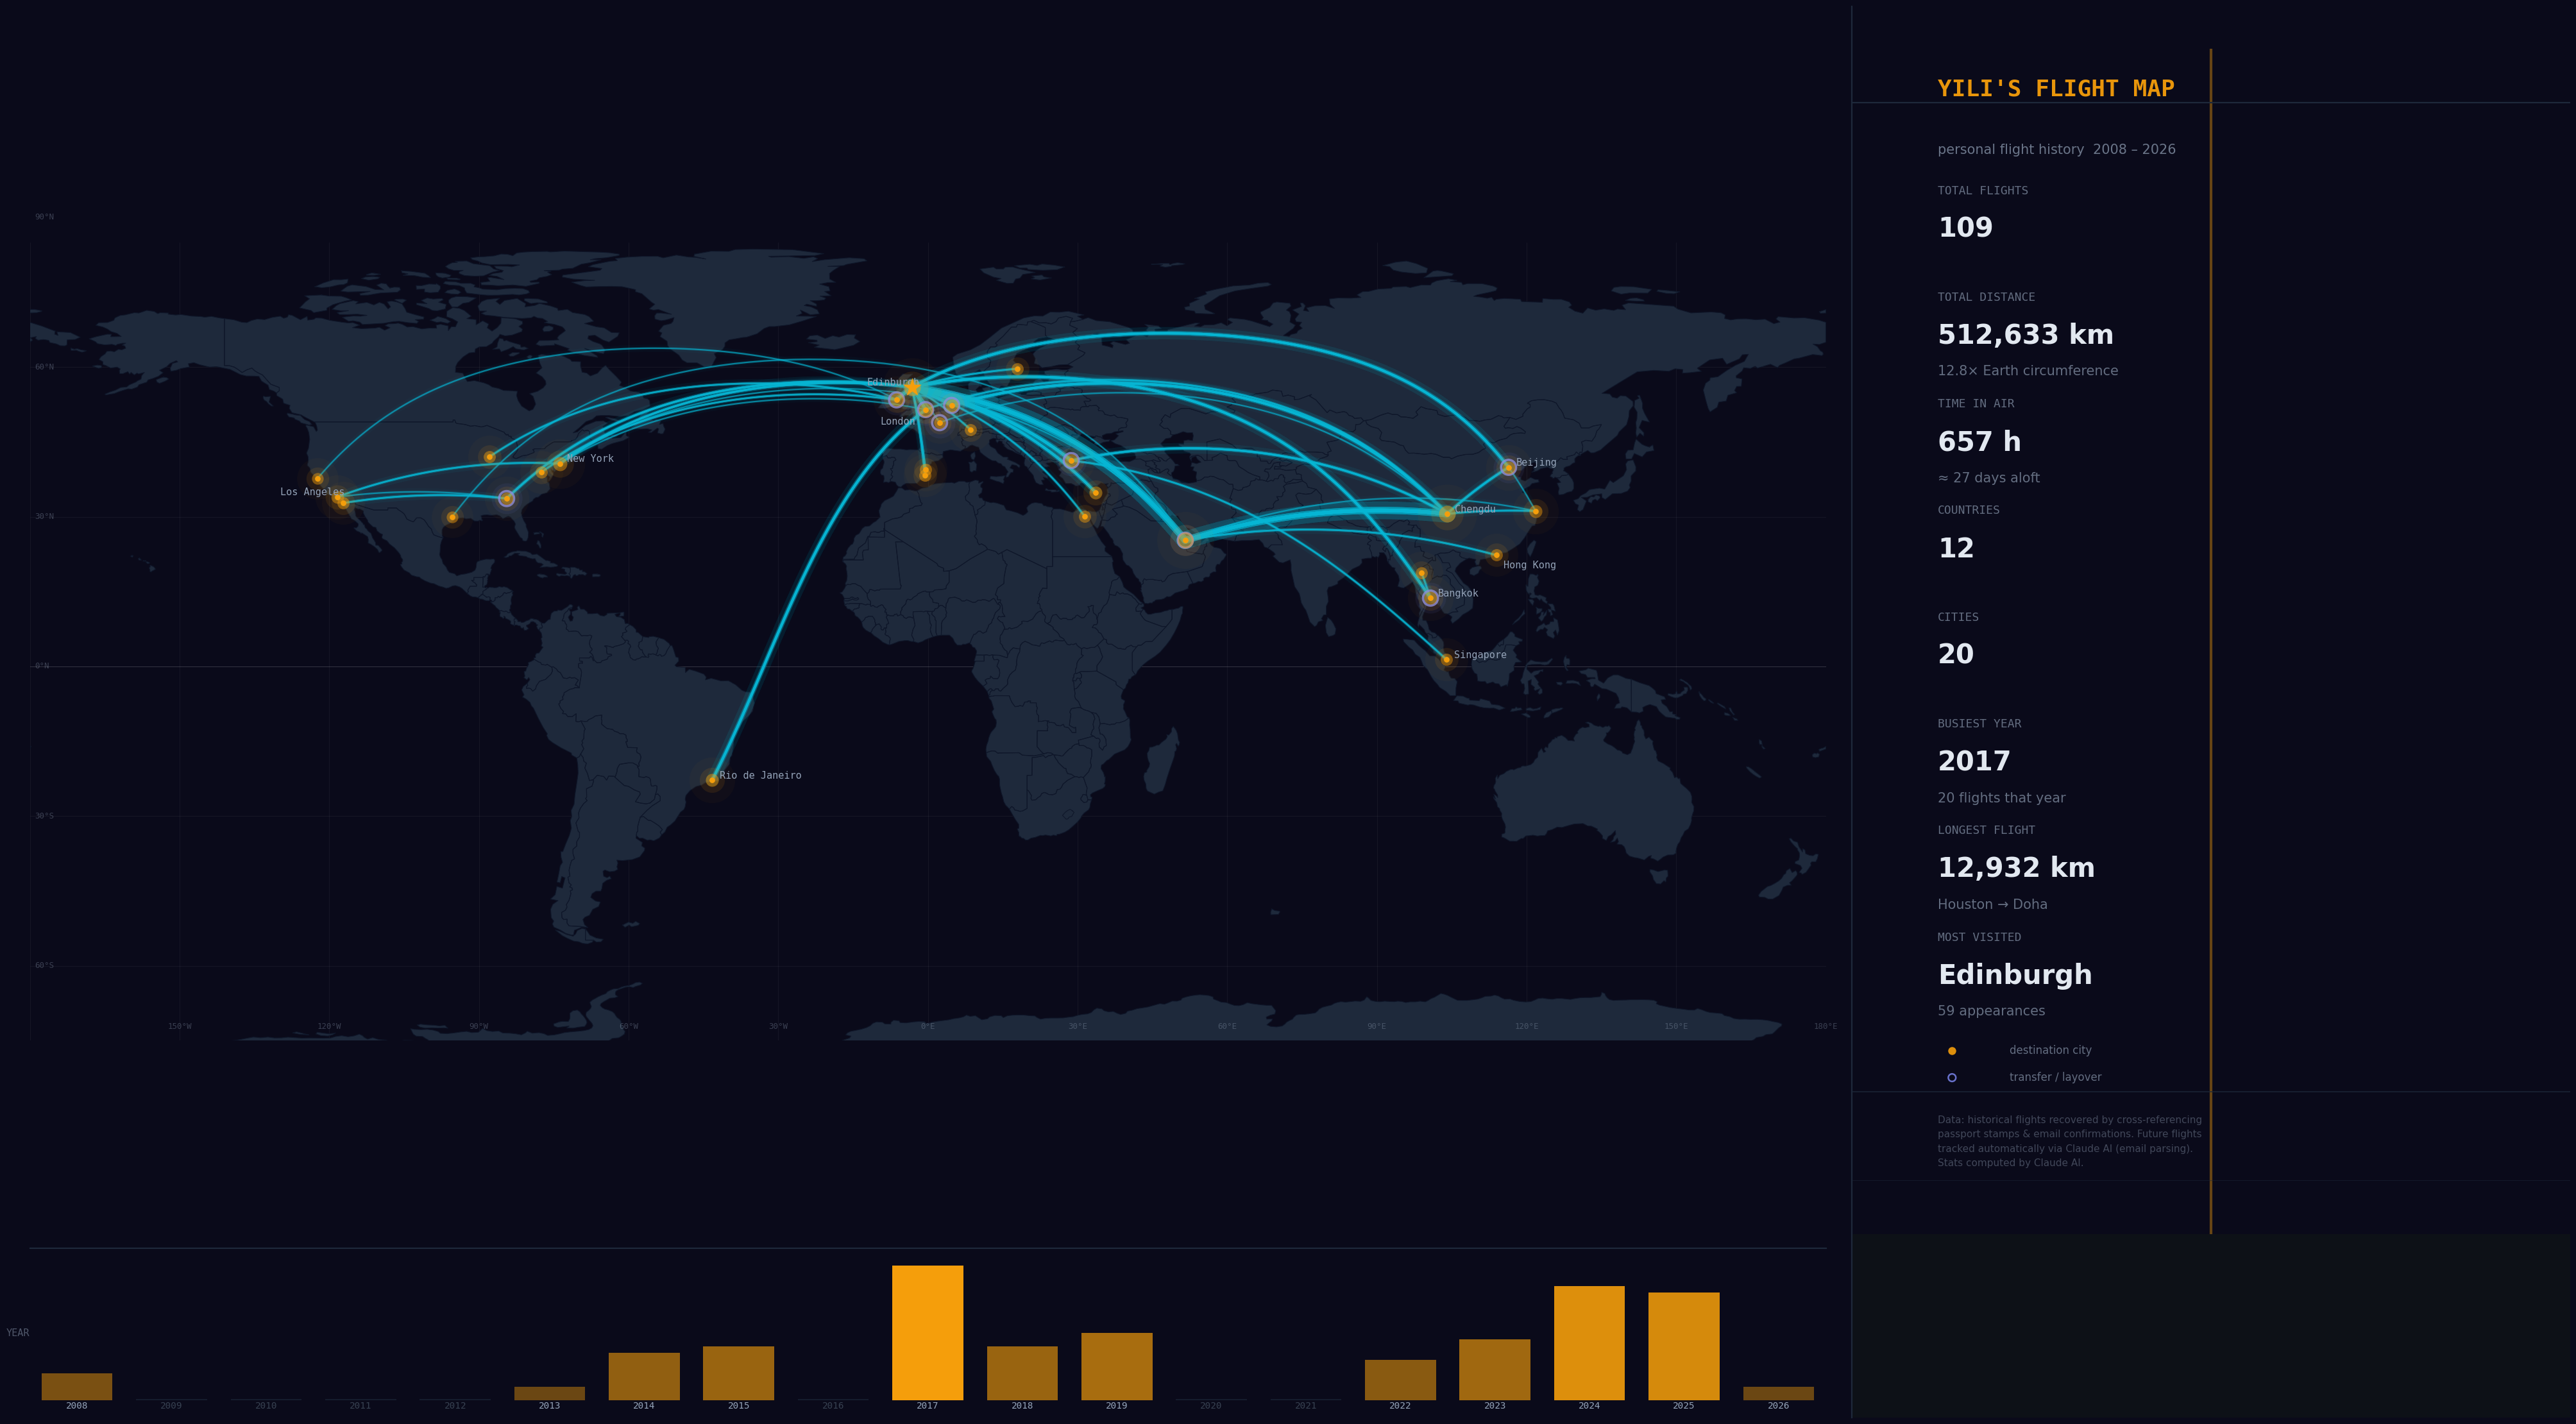
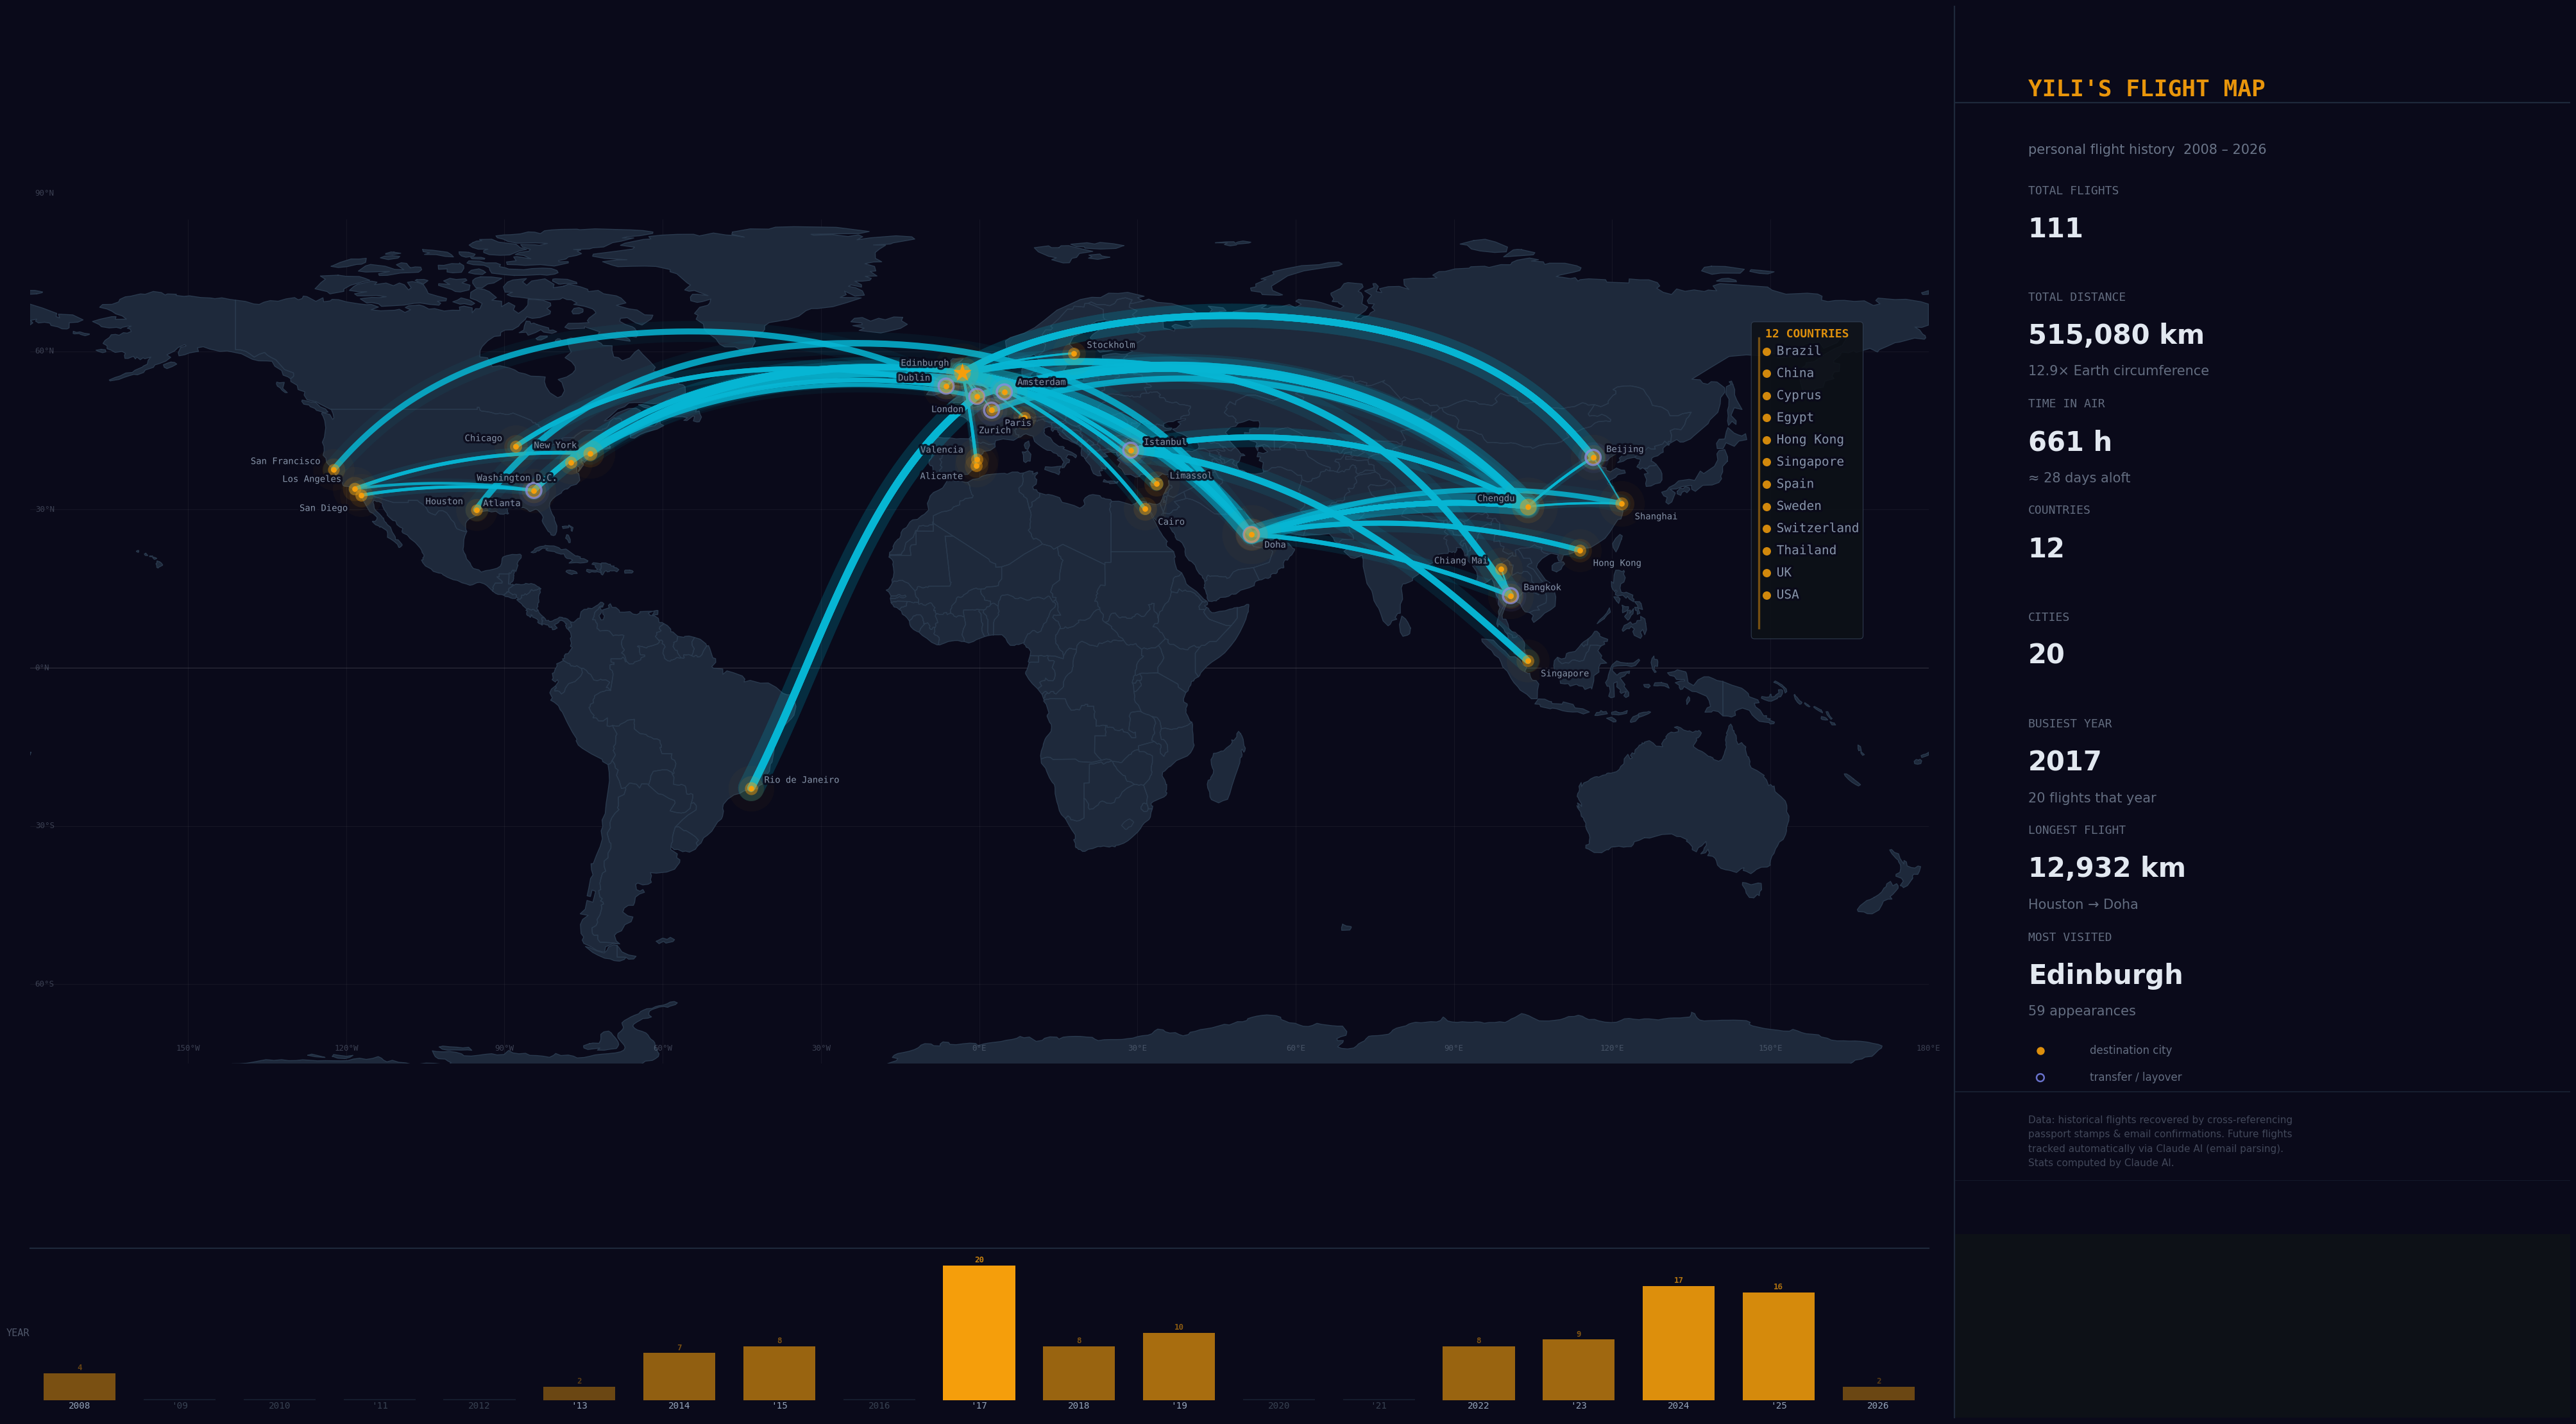
improved visualize.py

diff --git a/visualize.py b/visualize.py
@@ -19,6 +19,7 @@ import matplotlib.pyplot as plt
 import matplotlib.patches as mpatches
 from matplotlib.collections import LineCollection
 import numpy as np
+import matplotlib.patheffects as pe
 
 # ── Configuration ────────────────────────────────────────────────────────────
 
@@ -28,7 +29,7 @@ DPI = 200
 
 BG_COLOR     = "#0a0a1a"
 LAND_COLOR   = "#1e293b"
-COAST_COLOR  = "#0f172a"
+COAST_COLOR  = "#2a3a4e"
 ARC_COLOR    = "#06b6d4"       # cyan
 CITY_COLOR   = "#f59e0b"       # amber
 TEXT_COLOR   = "#e2e8f0"
@@ -303,7 +304,7 @@ def draw(flights, world_polys):
           f"{stats['cities']} cities")
 
     fig = plt.figure(figsize=(FIG_W, FIG_H), facecolor=BG_COLOR)
-    ax  = fig.add_axes([0.01, 0.13, 0.70, 0.84])   # main map
+    ax  = fig.add_axes([0.01, 0.13, 0.74, 0.84])   # main map
     ax.set_facecolor(BG_COLOR)
     ax.set_xlim(-180, 180)
     ax.set_ylim(-75, 85)          # crop Antarctica, show more north
@@ -335,7 +336,7 @@ def draw(flights, world_polys):
             xs = [c[0] for c in ring]
             ys = [c[1] for c in ring]
             ax.fill(xs, ys, color=LAND_COLOR, linewidth=0, zorder=1)
-            ax.plot(xs, ys, color=COAST_COLOR, linewidth=0.4, zorder=2)
+            ax.plot(xs, ys, color=COAST_COLOR, linewidth=0.5, zorder=2)
 
     # ── Flight arcs ──
     # count duplicate routes for thickness
@@ -350,18 +351,17 @@ def draw(flights, world_polys):
         pts = great_circle_points(lat1, lon1, lat2, lon2, n=80)
         key = tuple(sorted([f["origin"], f["dest"]]))
         repeats = route_count.get(key, 1)
-        lw = 0.8 + min(repeats - 1, 6) * 0.2
+        # Line width scales with distance (primary) + repeat routes (bonus)
+        lw = 0.45 + min(f["dist_km"] / 2800, 3.2) + min(repeats - 1, 4) * 0.18
         for seg in split_antimeridian(pts):
             if len(seg) < 2:
                 continue
             xs = [p[1] for p in seg]
             ys = [p[0] for p in seg]
-            # outer glow
-            ax.plot(xs, ys, color=ARC_COLOR, lw=lw*5, alpha=0.03, zorder=3, solid_capstyle="round")
-            # inner glow
-            ax.plot(xs, ys, color=ARC_COLOR, lw=lw*2, alpha=0.12, zorder=4, solid_capstyle="round")
-            # main arc
-            ax.plot(xs, ys, color=ARC_COLOR, lw=lw, alpha=0.65, zorder=5, solid_capstyle="round")
+            # soft glow halo
+            ax.plot(xs, ys, color=ARC_COLOR, lw=lw*3.5, alpha=0.06, zorder=3, solid_capstyle="round")
+            # main arc — solid, clean
+            ax.plot(xs, ys, color=ARC_COLOR, lw=lw, alpha=0.85, zorder=5, solid_capstyle="round")
 
     # ── City glow dots (destination vs transfer hub) ──
     dest_cities, hub_cities = {}, {}
@@ -379,30 +379,52 @@ def draw(flights, world_polys):
 
     HUB_COLOR = "#818cf8"   # soft indigo — distinct from amber cities and cyan arcs
 
-    # Transfer hubs — hollow ring, clearly less prominent than destinations
+    # Label offsets (dx_deg, dy_deg, ha) for every city in CITIES dict
+    CITY_LABEL_OFFSETS = {
+        "edinburgh": (-2.5,  1.8, "right"), "london":    (-2.5, -2.5, "right"),
+        "dublin":    (-3.0,  1.5, "right"), "stockholm": ( 2.5,  1.5, "left"),
+        "amsterdam": ( 2.5,  1.8, "left"),  "paris":     ( 2.5, -2.5, "left"),
+        "frankfurt": ( 2.5,  1.5, "left"),  "munich":    ( 2.5, -2.5, "left"),
+        "zurich":    (-2.5, -2.5, "right"), "alicante":  (-2.5, -2.0, "right"),
+        "valencia":  (-2.5,  1.8, "right"), "limassol":  ( 2.5,  1.5, "left"),
+        "paphos":    (-2.5, -2.5, "right"), "istanbul":  ( 2.5,  1.5, "left"),
+        "cairo":     ( 2.5, -2.5, "left"),  "doha":      ( 2.5, -2.0, "left"),
+        "chengdu":   (-2.5,  1.5, "right"), "beijing":   ( 2.5,  1.5, "left"),
+        "shanghai":  ( 2.5, -2.5, "left"),  "hong kong": ( 2.5, -2.5, "left"),
+        "bangkok":   ( 2.5,  1.5, "left"),  "chiang mai":(-2.5,  1.5, "right"),
+        "singapore": ( 2.5, -2.5, "left"),  "new york":  (-2.5,  1.5, "right"),
+        "washington d.c.": (-2.5, -3.0, "right"),
+        "chicago":       (-2.5,  1.5, "right"), "atlanta":     (-2.5, -2.5, "right"),
+        "houston":       (-2.5,  1.5, "right"), "los angeles": (-2.5,  1.8, "right"),
+        "san francisco": (-2.5,  1.5, "right"), "san diego":   (-2.5, -2.5, "right"),
+        "rio de janeiro": (2.5,  1.5, "left"),  "sao paulo":   ( 2.5, -2.5, "left"),
+    }
+    DISPLAY_NAMES = {
+        "sao paulo": "São Paulo",      "rio de janeiro": "Rio de Janeiro",
+        "washington d.c.": "Washington D.C.", "chiang mai": "Chiang Mai",
+        "hong kong": "Hong Kong",      "san francisco": "San Francisco",
+        "los angeles": "Los Angeles",  "san diego": "San Diego",
+        "new york": "New York",
+    }
+
+    # Text halo for label readability over land/arcs
+    _halo = [pe.withStroke(linewidth=2.5, foreground=BG_COLOR)]
+
+    # Transfer hubs — hollow ring + muted label
     for city, info in hub_cities.items():
         lat, lon = info["coords"]
         ax.scatter(lon, lat, s=300, color=HUB_COLOR, alpha=0.07, zorder=6, linewidths=0)
         ax.scatter(lon, lat, s=70,  facecolors="none", edgecolors=HUB_COLOR,
                    alpha=0.80, zorder=7, linewidths=1.3)
         ax.scatter(lon, lat, s=8,   color=HUB_COLOR, alpha=0.75, zorder=8, linewidths=0)
+        key = normalize(city)
+        dx, dy, ha = CITY_LABEL_OFFSETS.get(key, (2.5, 1.5, "left"))
+        label = DISPLAY_NAMES.get(key, city.title())
+        ax.text(lon + dx, lat + dy, label, fontsize=4.5, color=HUB_COLOR,
+                ha=ha, va="center", fontfamily="monospace", alpha=0.65, zorder=13,
+                clip_on=True, path_effects=_halo)
 
-    # city labels for prominent cities
-    LABELS = {
-        "Edinburgh":    ( 3,  3, "right"),
-        "Chengdu":      ( 3,  3, "left"),
-        "London":       (-4, -8, "right"),
-        "New York":     ( 3,  3, "left"),
-        "Bangkok":      ( 3,  3, "left"),
-        "Hong Kong":    ( 3, -7, "left"),
-        "Beijing":      ( 3,  3, "left"),
-        "Los Angeles":  ( 3,  3, "right"),
-        "Rio de Janeiro":( 3, 3, "left"),
-        "Singapore":    ( 3,  3, "left"),
-        "Chiangmai":    ( 3,  3, "left"),
-    }
-
-    # Destination cities — bright amber glow
+    # Destination cities — bright amber glow + label every city
     for city, info in dest_cities.items():
         lat, lon = info["coords"]
         c = info["count"]
@@ -411,25 +433,64 @@ def draw(flights, world_polys):
         ax.scatter(lon, lat, s=150*size_scale, color=CITY_COLOR, alpha=0.10, zorder=10, linewidths=0)
         ax.scatter(lon, lat, s=40*size_scale,  color=CITY_COLOR, alpha=0.45, zorder=11, linewidths=0)
         ax.scatter(lon, lat, s=10,             color=CITY_COLOR, alpha=1.0,  zorder=12, linewidths=0)
-
-        if city in LABELS:
-            dx, dy, ha = LABELS[city]
-            ax.annotate(city, xy=(lon, lat), xytext=(lon + dx*0.5, lat + dy*0.3),
-                        fontsize=5.5, color=TEXT2_COLOR, ha=ha, va="center",
-                        fontfamily="monospace", zorder=13, annotation_clip=True)
+        key = normalize(city)
+        dx, dy, ha = CITY_LABEL_OFFSETS.get(key, (2.5, 1.5, "left"))
+        label = DISPLAY_NAMES.get(key, city.title())
+        ax.text(lon + dx, lat + dy, label, fontsize=5.0, color=TEXT2_COLOR,
+                ha=ha, va="center", fontfamily="monospace", alpha=0.85, zorder=13,
+                clip_on=True, path_effects=_halo)
 
     # star for home base Edinburgh
     elat, elon, _ = CITIES["edinburgh"]
     ax.scatter(elon, elat, s=120, color=CITY_COLOR, alpha=1.0, zorder=14,
                marker="*", linewidths=0)
 
+    # ── Countries panel (right-side empty Pacific space) ──
+    # Only destination countries (same logic as compute_stats)
+    _real = set()
+    _hub_only = set()
+    for f in flights:
+        _real.add(f["origin"])
+        if f["is_transfer"]:
+            _hub_only.add(f["dest"])
+        else:
+            _real.add(f["dest"])
+    _real -= _hub_only
+    dest_countries = set()
+    for _c in _real:
+        _cc = lookup_country(_c)
+        if _cc:
+            dest_countries.add(_cc)
+    sorted_ctry = sorted(dest_countries)
+    n_ctry = len(sorted_ctry)
+
+    # Panel at lon ~149, lat 60 downward, step 4.2° per row
+    px, py0, pstep = 149.0, 60.0, 4.2
+    box_h = n_ctry * pstep + 4.5
+    # Semi-opaque panel background with subtle border
+    ax.add_patch(mpatches.FancyBboxPatch(
+        (px - 2.0, py0 - box_h + 1.0), 20.0, box_h + 4.0,
+        boxstyle="round,pad=0.6", linewidth=0.4, edgecolor="#334155",
+        facecolor="#0d1117", alpha=0.88, zorder=17))
+    # Amber accent line on the left of the panel
+    ax.plot([px - 1.2, px - 1.2], [py0 + 2.5, py0 - box_h + 2.5],
+            color=CITY_COLOR, lw=1.2, alpha=0.45, zorder=18)
+    # Title
+    ax.text(px, py0 + 2.2, f"{n_ctry} COUNTRIES",
+            fontsize=6.5, color=CITY_COLOR, ha="left", va="bottom",
+            fontfamily="monospace", fontweight="bold", alpha=0.90, zorder=20)
+    for i, country in enumerate(sorted_ctry):
+        lat = py0 - i * pstep
+        ax.scatter(px + 0.3, lat, s=22, color=CITY_COLOR, alpha=0.85,
+                   zorder=21, linewidths=0)
+        ax.text(px + 2.2, lat, country, fontsize=7, color=TEXT2_COLOR,
+                va="center", ha="left", fontfamily="monospace", alpha=0.88, zorder=20,
+                path_effects=_halo)
+
     # ── Stats panel (right sidebar) ──
-    sx = fig.add_axes([0.72, 0.13, 0.28, 0.84])
+    sx = fig.add_axes([0.76, 0.13, 0.24, 0.84])
     sx.set_facecolor("#0d1117")
     sx.axis("off")
-
-    # thin left border accent
-    sx.axvline(0.0, color=CITY_COLOR, lw=1.5, alpha=0.4)
 
     def stat(y, label, value, sub=None):
         # Label — small caps, sits tight above the value
@@ -501,7 +562,7 @@ def draw(flights, world_polys):
     years = sorted(by_year)
     yr_min, yr_max = min(years), max(years)
 
-    bx = fig.add_axes([0.01, 0.01, 0.70, 0.10])
+    bx = fig.add_axes([0.01, 0.01, 0.74, 0.10])
     bx.set_facecolor(BG_COLOR)
     bx.axis("off")
 
@@ -511,13 +572,17 @@ def draw(flights, world_polys):
         cnt = by_year.get(yr, 0)
         if cnt > 0:
             alpha = 0.35 + 0.65 * (cnt / max_cnt)
-            bx.bar(i, cnt, color=CITY_COLOR, alpha=alpha, width=0.75, bottom=0,
+            bx.bar(i, cnt, color=CITY_COLOR, alpha=alpha, width=0.72, bottom=0,
                    linewidth=0)
+            # count label on top of bar
+            bx.text(i, cnt + 0.18, str(cnt), ha="center", va="bottom",
+                    fontsize=4.5, color=CITY_COLOR, alpha=alpha * 0.8,
+                    fontfamily="monospace", fontweight="bold")
         else:
-            bx.bar(i, 0.15, color="#1e293b", alpha=0.6, width=0.75, bottom=0,
+            bx.bar(i, 0.15, color="#1e293b", alpha=0.6, width=0.72, bottom=0,
                    linewidth=0)
-        label = str(yr) if yr % 2 == 0 else str(yr)[-2:]
-        bx.text(i, -0.25, str(yr), ha="center", va="top",
+        yr_label = str(yr) if yr % 2 == 0 else f"'{str(yr)[-2:]}"
+        bx.text(i, -0.25, yr_label, ha="center", va="top",
                 fontsize=5.2, color=TEXT2_COLOR if cnt else "#374151",
                 fontfamily="monospace")
 
@@ -531,16 +596,16 @@ def draw(flights, world_polys):
     # fill the bottom-right gap (sidebar only covers y=0.13–0.97; below that is figure bg)
     import matplotlib.patches as mpatches2
     fig.patches.append(mpatches2.Rectangle(
-        (0.72, 0.0), 0.28, 0.13, transform=fig.transFigure,
+        (0.76, 0.0), 0.24, 0.13, transform=fig.transFigure,
         facecolor="#0d1117", linewidth=0, zorder=0))
 
     # thin separators
     import matplotlib.lines as mlines
     fig.add_artist(mlines.Line2D(
-        [0.01, 0.71], [0.12, 0.12], transform=fig.transFigure,
+        [0.01, 0.75], [0.12, 0.12], transform=fig.transFigure,
         color="#1e293b", linewidth=0.8))
     fig.add_artist(mlines.Line2D(
-        [0.72, 0.72], [0.0, 1.0], transform=fig.transFigure,
+        [0.76, 0.76], [0.0, 1.0], transform=fig.transFigure,
         color="#1e293b", linewidth=0.8))
 
     plt.savefig(OUTPUT, dpi=DPI, bbox_inches="tight", pad_inches=0.05,

diff --git a/README.md b/README.md
@@ -25,7 +25,7 @@ Inspired by [Fog of World](https://fogofworld.app/) and [Flighty](https://flight
 All flights live in a single CSV:
 
 ```csv
-date,origin_city,origin_country,dest_city,dest_country,transfer
+year,origin_city,transfer_city,dest_city
 ```
 
 `transfer=1` marks a row where the destination is a transit hub (Doha, Istanbul, Amsterdam, etc.) rather than a true visited city — used to differentiate glowing destination dots from dimmer hub dots on the map.